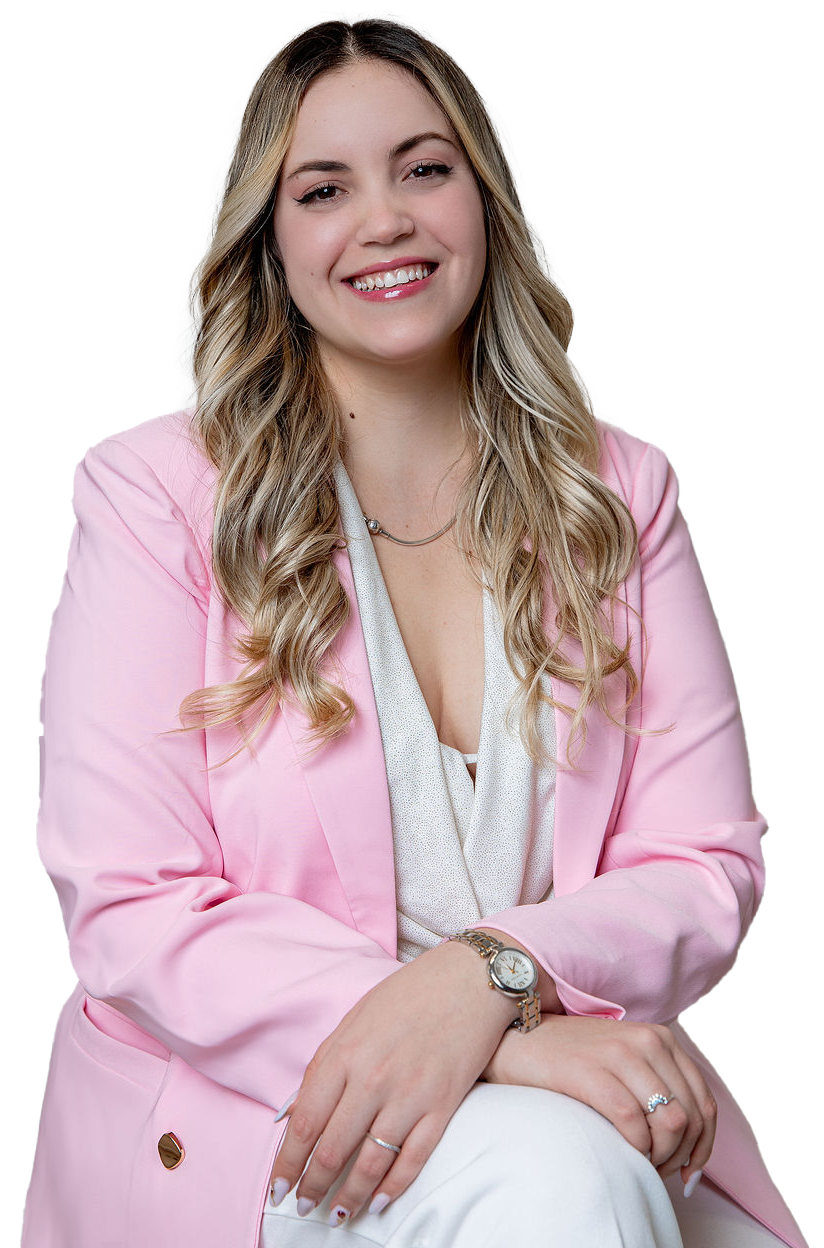
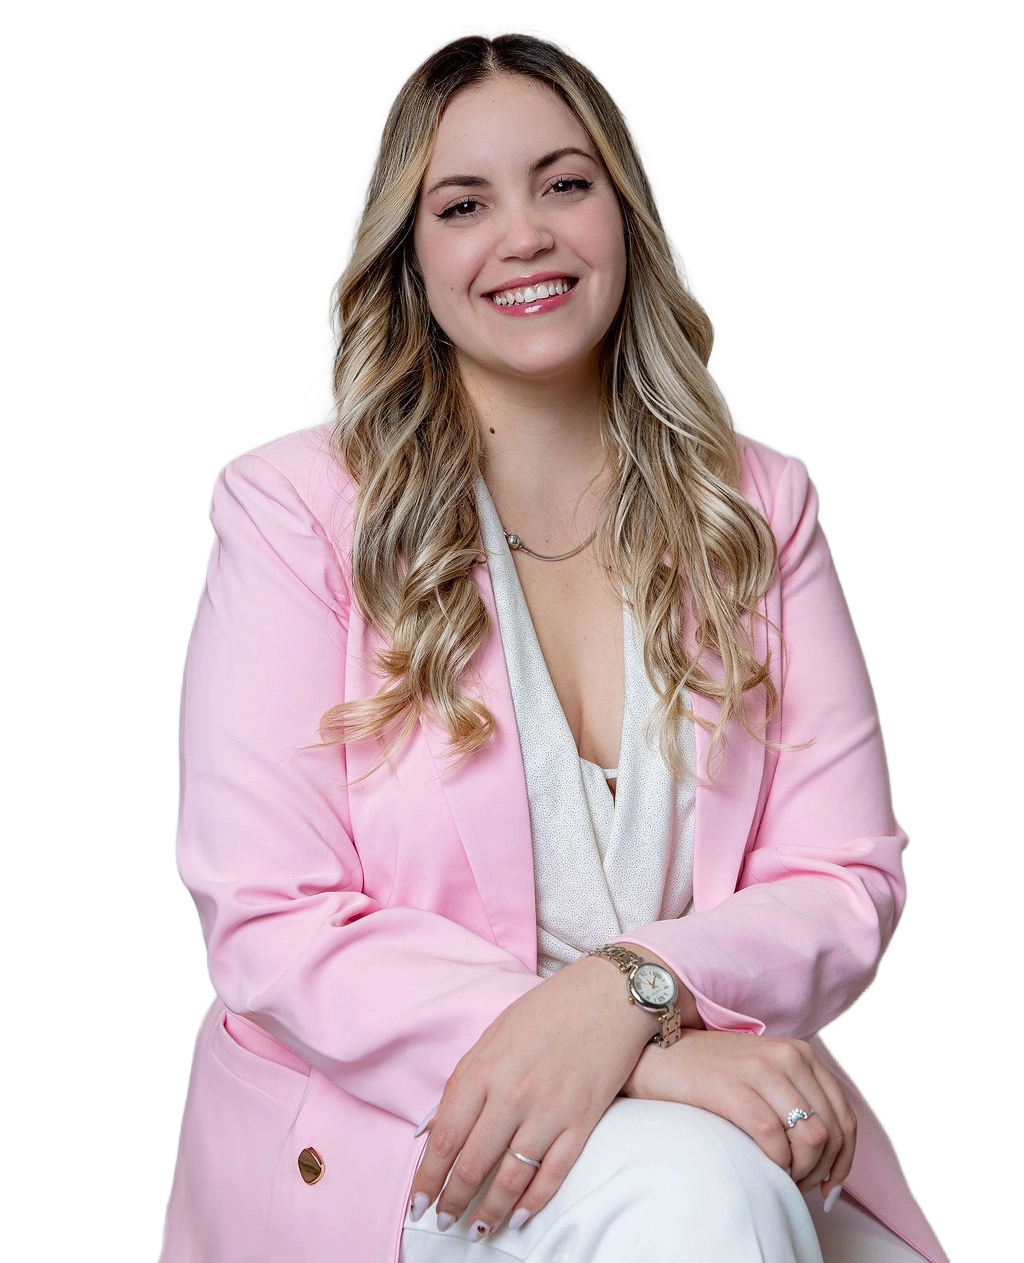
some image high

diff --git a/src/modules/my/components/Hero.tsx b/src/modules/my/components/Hero.tsx
@@ -17,7 +17,7 @@ export default function Hero({
     content: ContentType
 }) {
     return (
-        <Stack position={'relative'} bg="#F3A0FF0D">
+        <Stack position={'relative'} bg="rgb(254, 251, 255)">
             {/* <Stack
                 position={"absolute"}
                 top={0}
@@ -136,27 +136,28 @@ export default function Hero({
                             </Transition>
                         </Box>
                         <Transition type="rigth" velocity="slow">
-                            <Box
+                            <Flex
                                 flex={1}
                                 w={{ base: "300px", lg: "540px" }}
-                                h={{ base: "350px", md: "380px" }}
-                                borderRadius="140px"
+                                h={{ base: "350px", md: "300px" }}
+                                borderRadius="80px"
                                 background="radial-gradient(circle at center, #FFFFFF 0%, #F9D0FF 100%)"
                                 position="relative"
+                                align={'center'}
+                                boxShadowColor={'red.50'}
+                                boxShadow={'2px 2px 150px #f9d0ff'}
+                                overflow={{ base: 'hidden', md: 'visible' }}
                             >
                                 <Image
                                     src="/my/heroMy.webp"
                                     alt="Foto derecha"
-
-                                    h="105%"
+                                    w={{ base: "auto", md: "100%" }}
+                                    h={{ base: "130%", md: "auto" }}
                                     objectFit="cover"
                                     objectPosition={{ base: "center top", md: "center top", lg: "center" }}
-                                    position="absolute"
-                                    bottom="0"
-                                    left="0"
                                     zIndex="1"
                                 />
-                            </Box>
+                            </Flex>
                         </Transition>
                     </Flex>
                 </Box>

diff --git a/src/modules/home/components/Hero.tsx b/src/modules/home/components/Hero.tsx
@@ -42,9 +42,9 @@ export default function Hero({
 
             <ContainerLanding zIndex={2}>
                 <Flex
-                    gap={20}
+                    gap={{ base: 6, md: 20 }}
                     flexDirection={{ base: "column-reverse", lg: "row" }} align={"center"}>
-                    
+
                     {/* Izquierda - Títulos, descripción, botones y estadísticas */}
                     <Box flex={1} textAlign={{ base: "center", md: "left" }}>
                         <Flex
@@ -59,7 +59,7 @@ export default function Hero({
                                             color="primary.500"
                                             fontFamily="Bricolage Grotesque"
                                             fontWeight="extrabold"
-                                            fontSize={{ base: "28px", md: "40px", lg: "54px" }}
+                                            fontSize={{ base: "34px", md: "40px", lg: "54px" }}
                                             lineHeight={{ base: "36px", md: "50px", lg: "70px" }}
                                         >
                                             {content.home.main_title}
@@ -208,6 +208,7 @@ export default function Hero({
                         zIndex={2}
                         position={'relative'}
                         overflow={'hidden'}
+
                     >
                         <Stack position="absolute"
                             top={'calc((100% / 2) - 200px )'}
@@ -258,7 +259,7 @@ export default function Hero({
                         </Stack>
 
                         <Transition type="rigth" velocity="slow" index={1}>
-                            <Stack zIndex={5} p={4}>
+                            <Stack zIndex={5} >
                                 <Image
                                     zIndex={5}
                                     src="/home/Hero.webp"
